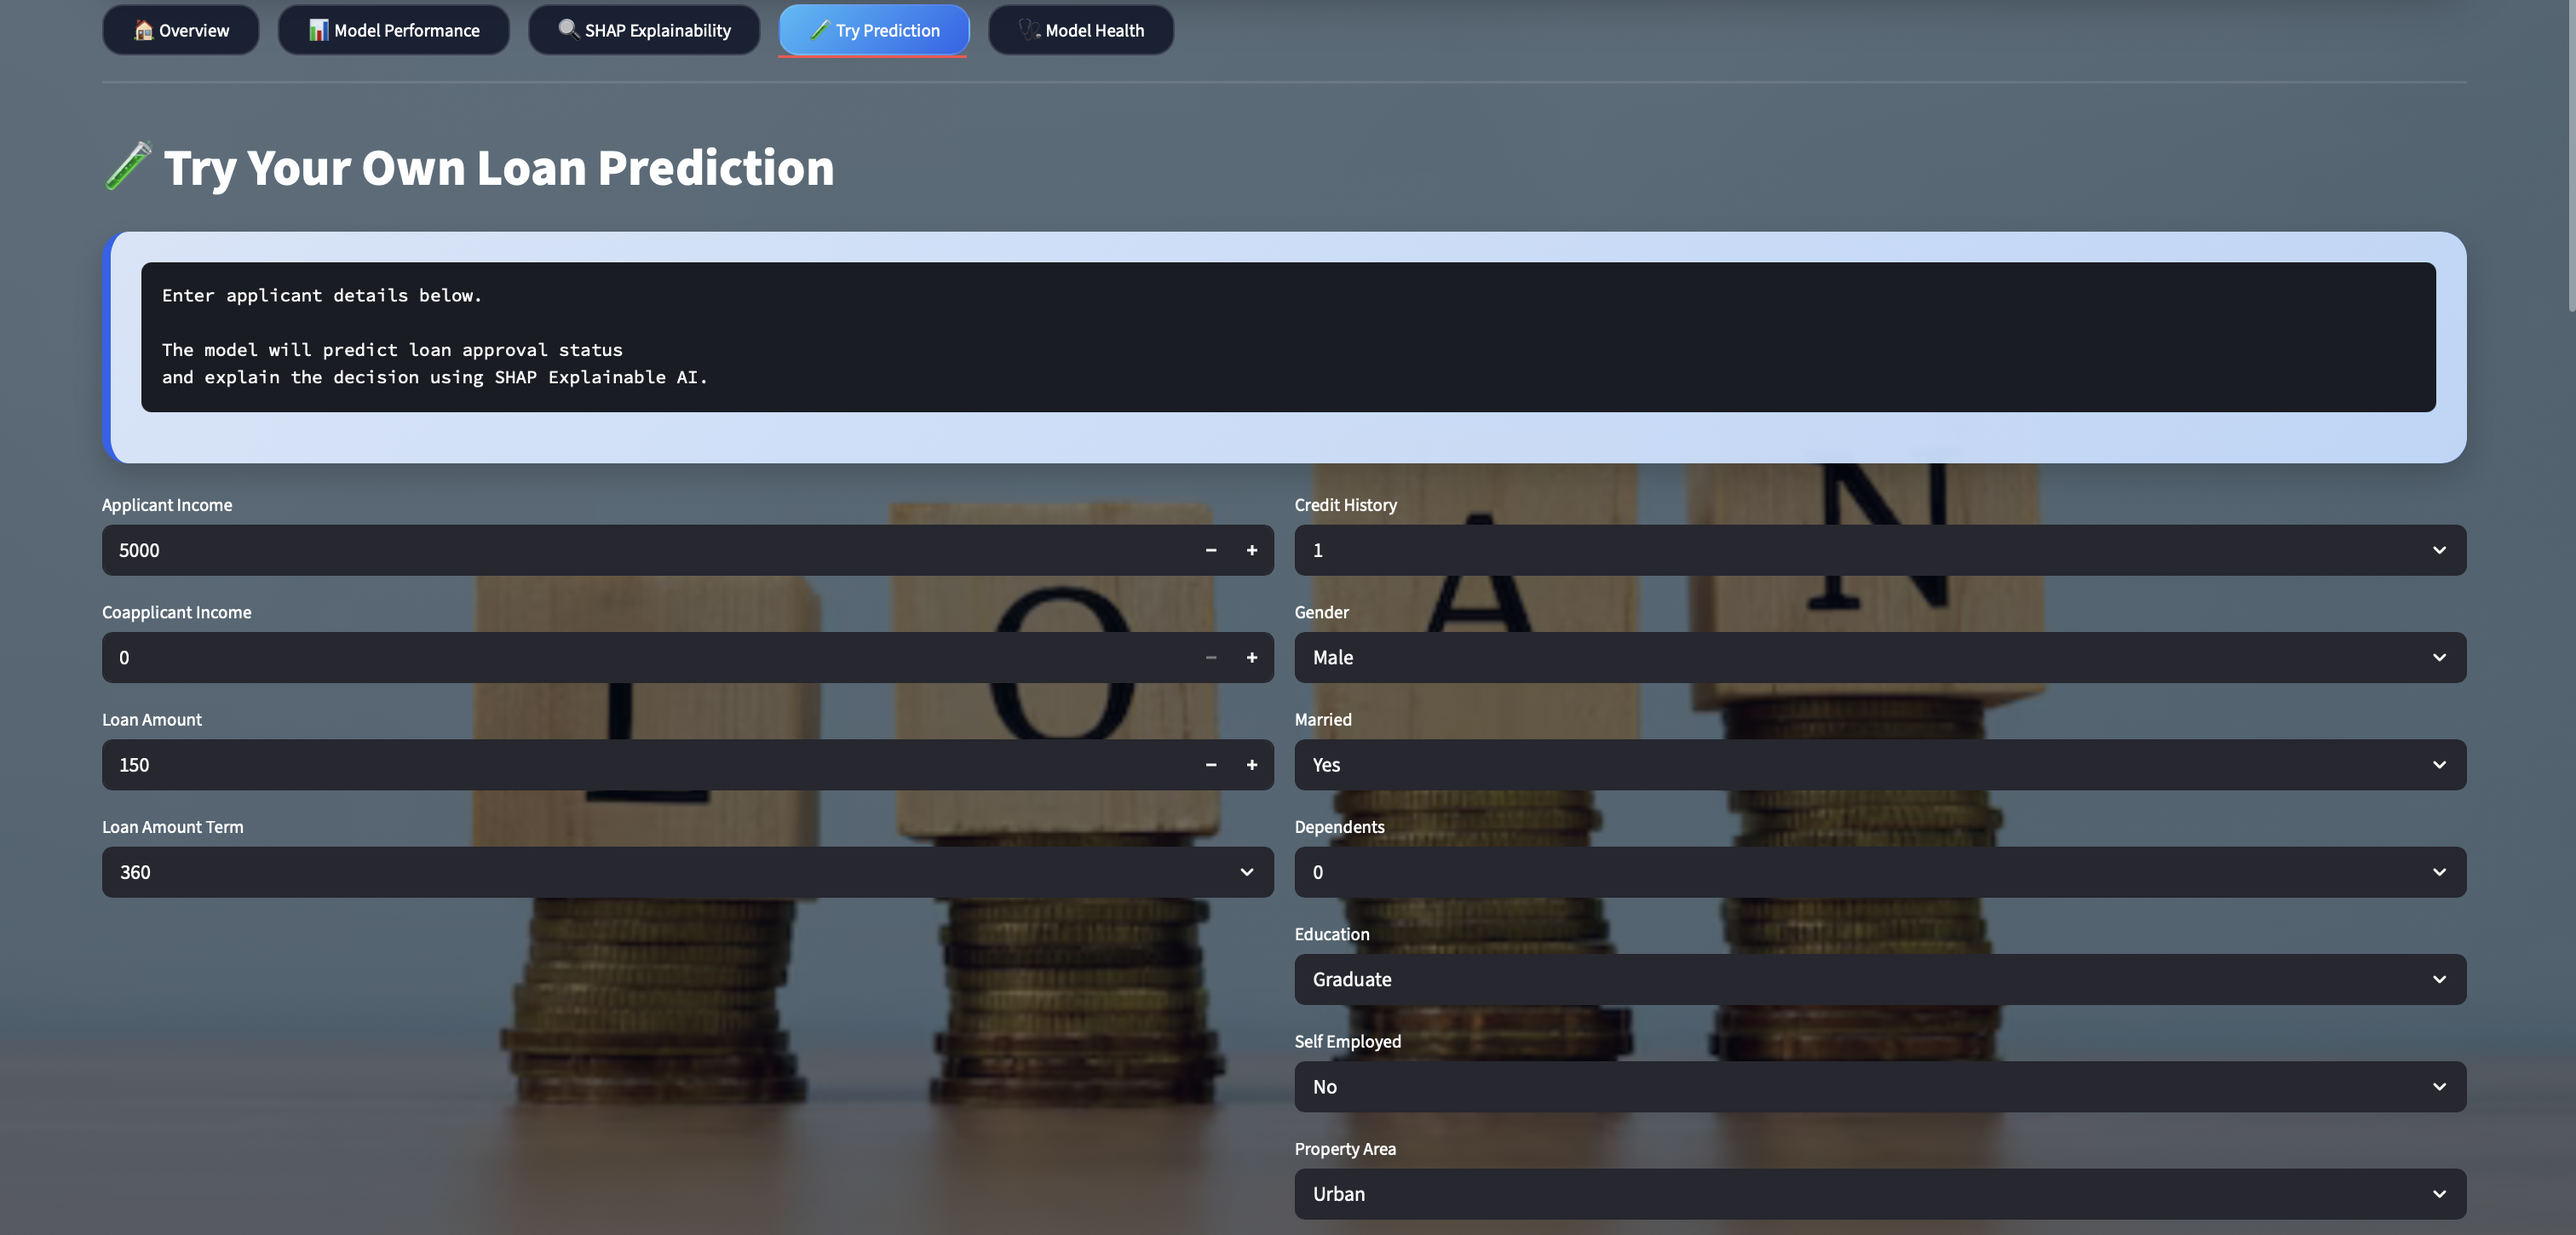
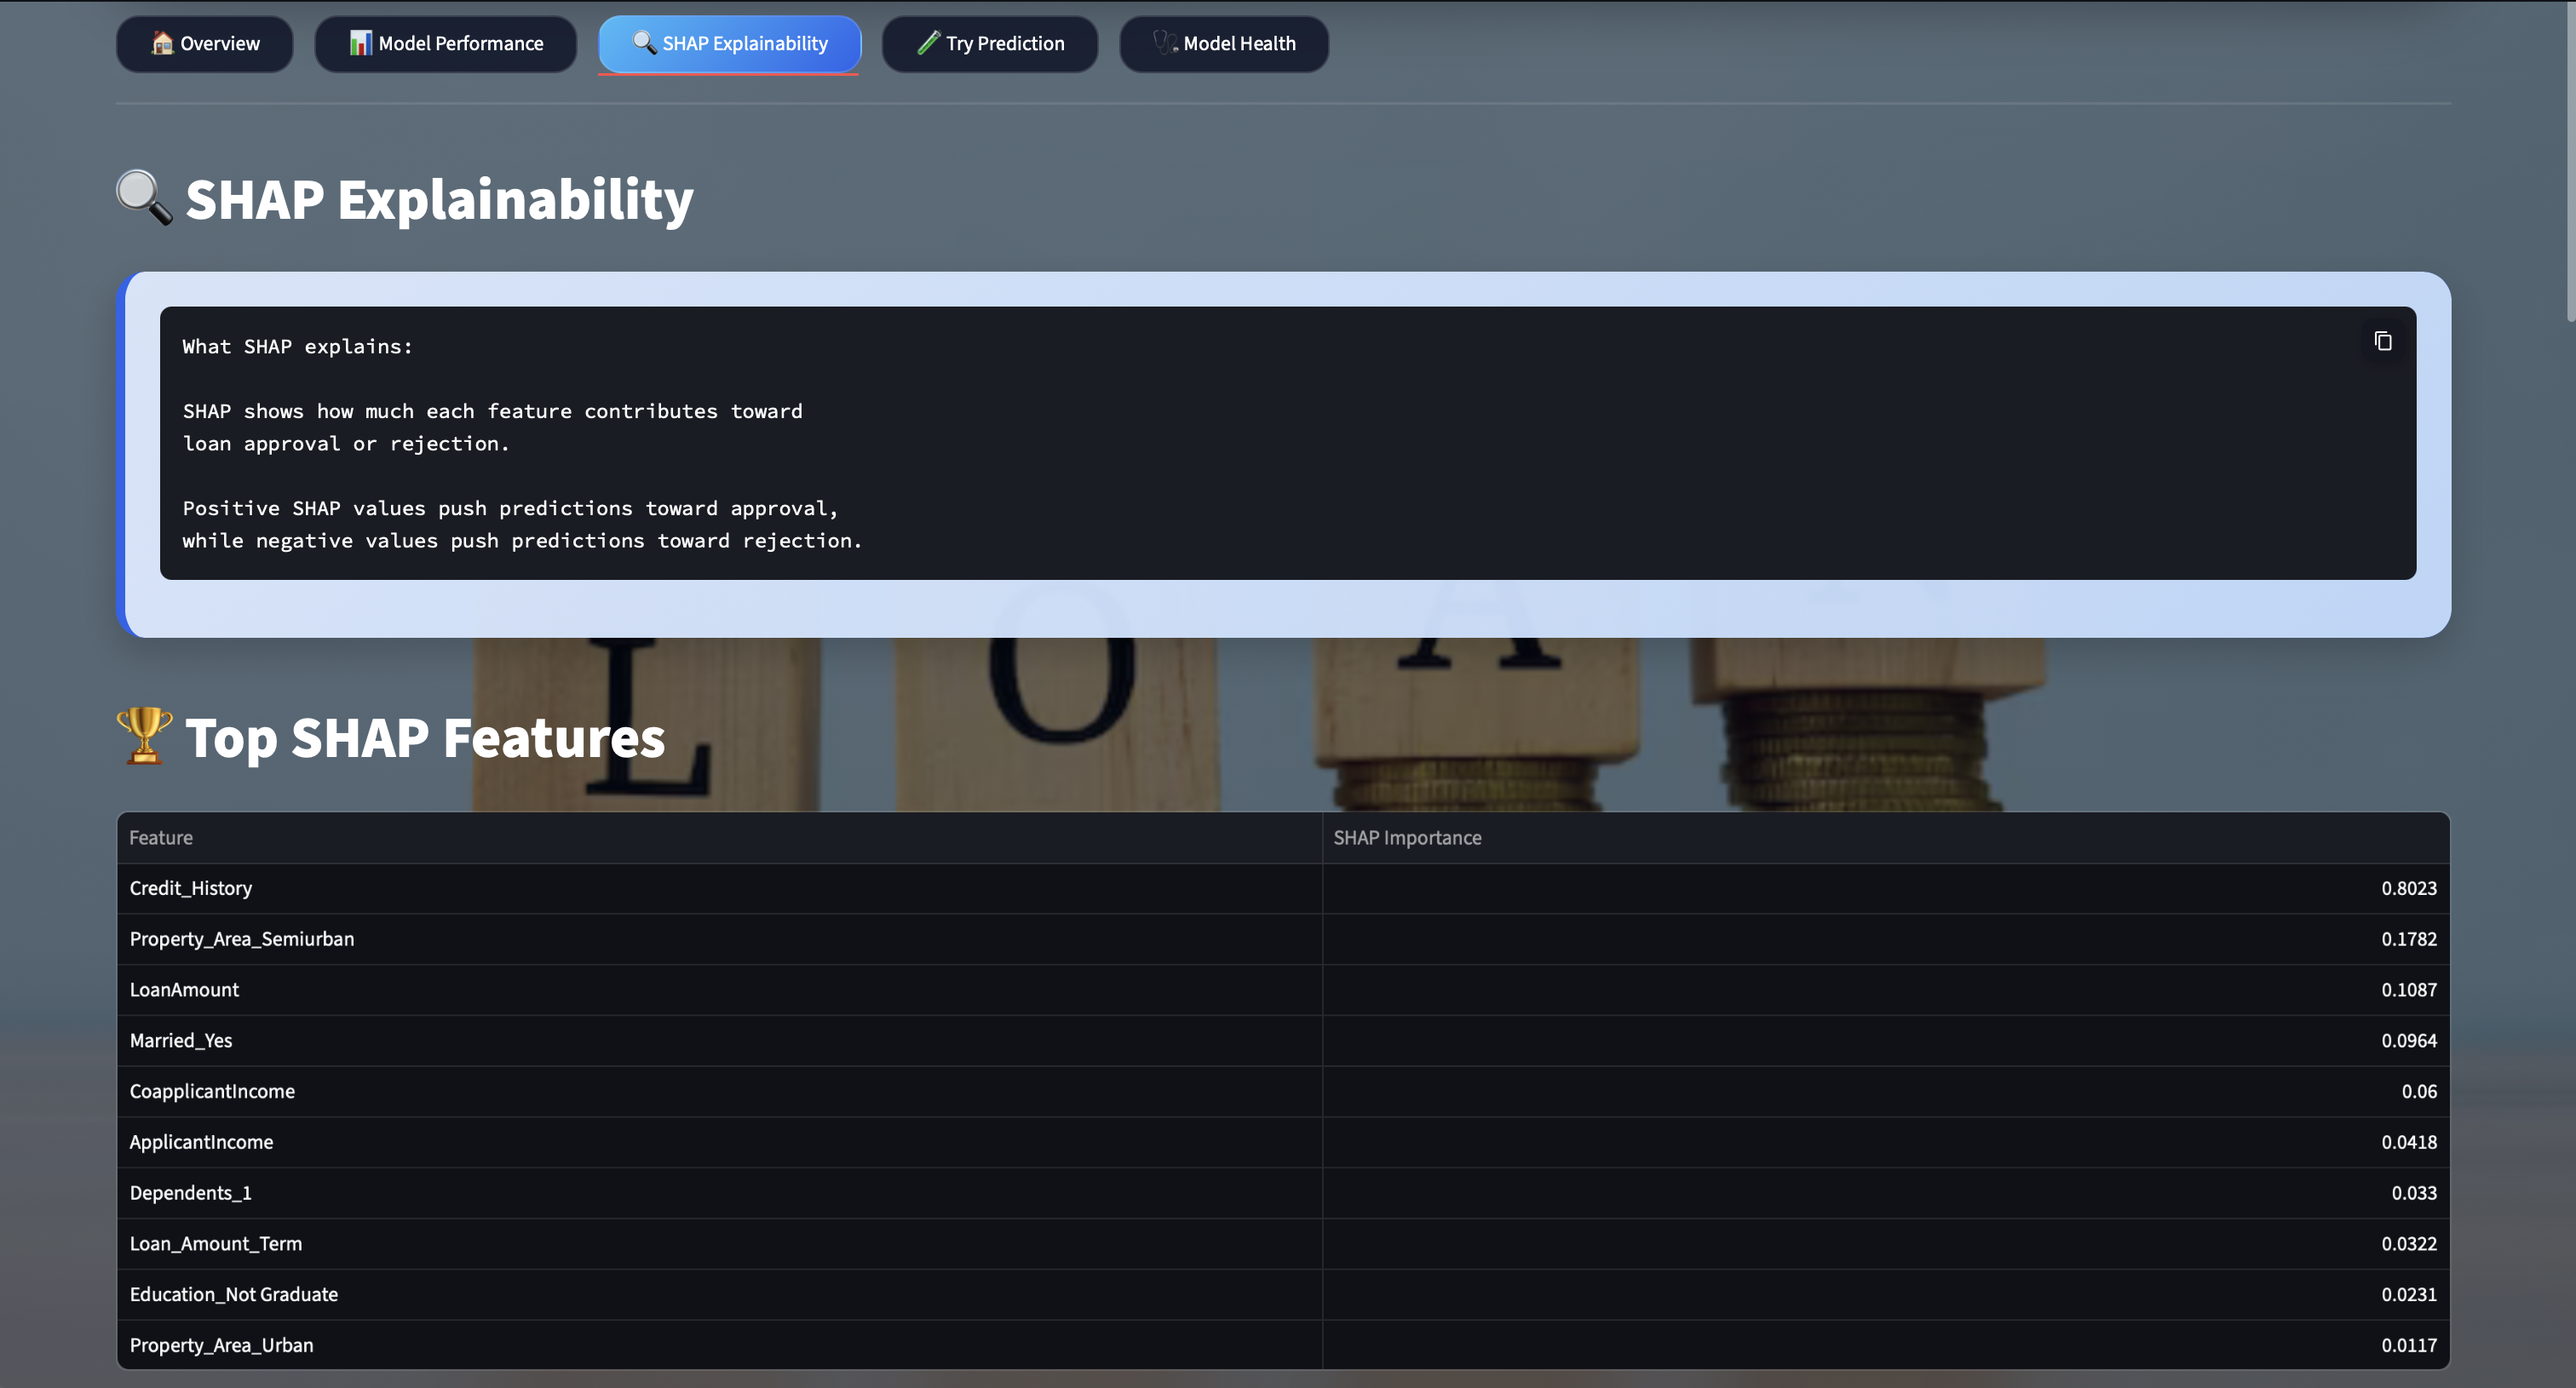
Updated Streamlit app, README, and dashboard screenshots

diff --git a/app.py b/app.py
@@ -483,32 +483,9 @@ with tab2:
         f"{metrics['f1']:.2%}"
     )
 
-    html("""
-    <div class="green-card">
 
-        Optimization Result:
 
-        The improved XGBoost model reduced overfitting
-        and improved generalization performance.
 
-    </div>
-    """)
-
-    st.markdown(
-        '<div class="section-title">🧮 Confusion Matrix</div>',
-        unsafe_allow_html=True
-    )
-
-    cm_df = pd.DataFrame(
-        metrics["confusion_matrix"],
-        index=["Actual Rejected", "Actual Approved"],
-        columns=["Predicted Rejected", "Predicted Approved"]
-    )
-
-    st.dataframe(
-        cm_df,
-        use_container_width=True
-    )
 
 
 # =========================================================

diff --git a/README.md b/README.md
@@ -277,7 +277,7 @@ An interactive Streamlit application was developed to:
 
 ## SHAP Explainability
 
-<img src="Streamlit_screenshots/dashboard2.png" width="900">
+<img src="Streamlit_screenshots/dashboard3.png" width="900">
 
 ---
 
